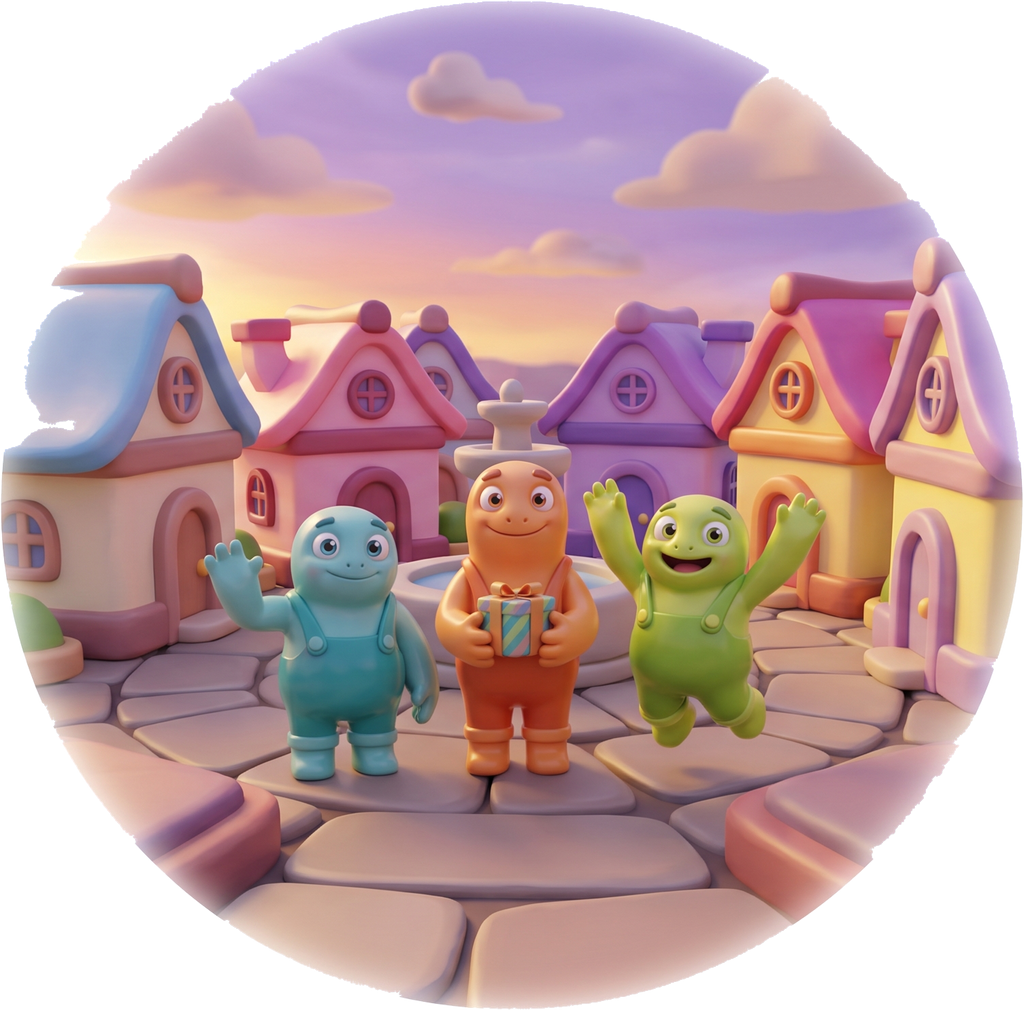
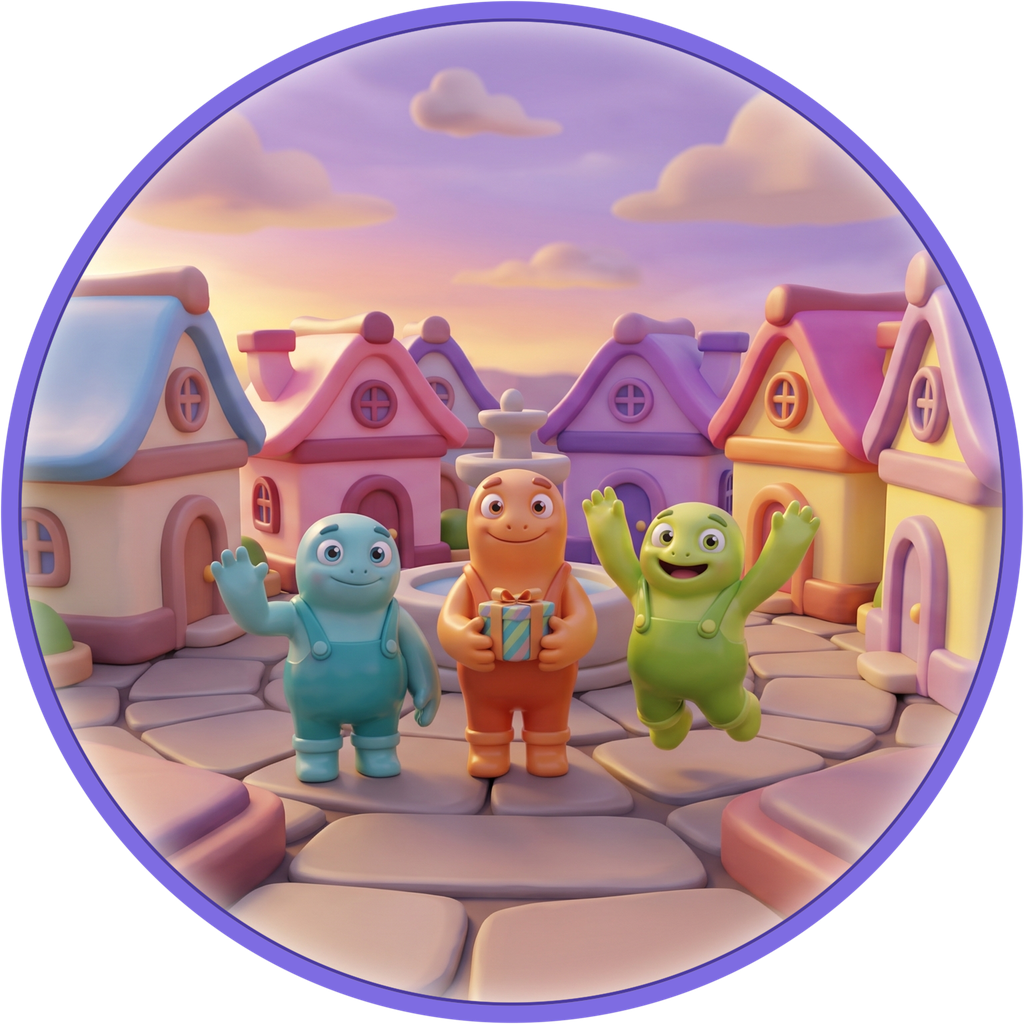
Bolge daireleri CIZILIYOR, Yolculuk zeminine doku, Ust/Alt kenara alindi
BAZI SEKILLER KESILMEZ, CIZILIR: Bolge gorselleri dairesel cizilip
kenarlari zemine yumusak geciyor. Renk tasmasiyla kesmek o yumusak gecisi
duzensiz yiyordu -- daire artik daire degil, her gorselde farkli yerinden
kemirilmis bir lekeydi. Seklin ne oldugunu ZATEN BILIYORSAK onu tahmin
etmeye calismak yanlis. cutout.py'a `circle` secenegi eklendi: goruntu
merkezden kareye kirpilip kusursuz bir daire alfasi uygulaniyor, kenarina
da cerceve halkasi basiliyor. Halka iki is goruyor -- yarim kalmis
pikselleri ortuyor ve koyu zeminde daireye sinir veriyor. Ayri bir cerceve
gorseline gerek kalmadi.

DUZ RENK ZEMIN BOS OKUNUR: Yolculuk'un zemini duz laciverttdi; manzaradan
iyiydi (yazi okunuyordu) ama ekran "yuklenmemis" gibi duruyordu. Cok dusuk
kontrastli sekiller eklendi: %4-7 opaklikta daireler ve %10 opaklikta
yildizlar. Kritik olan kontrastin DUSUK olmasi. Sekiller sabit bir duzende
-- rastgele olsaydi her acilista farkli durur ve "bozuk mu" hissi verirdi.

YARDIMCI DUGME ANA YOLUN USTUNDE DURMAZ: Ust/Alt ekranin ortasindaydi ve
rayin uzerindeki rozetlerle cakisiyordu. Islevleri ikincil; sag kenara,
icerigin disina alindilar.

Changed region(s): [[0.0, 0.0, 1.0, 1.0], [0.6562, 0.1228, 0.7188, 0.1535], [0.5312, 0.2149, 0.5625, 0.2455]]

diff --git a/Assets/_Project/Scripts/Runtime/UI/JourneyScreen.cs b/Assets/_Project/Scripts/Runtime/UI/JourneyScreen.cs
@@ -76,6 +76,7 @@ namespace BlockOut.Runtime.UI
 
             // Manzarayı tamamen kapat: bu ekran sade zemin ister.
             UiKit.CreatePanel("Solid", root, Indigo);
+            screen.BuildBackdrop(root);
 
             screen.BuildScrollArea(root);
             screen.BuildTrack();
@@ -89,6 +90,54 @@ namespace BlockOut.Runtime.UI
 
             screen._built = true;
             return root;
+        }
+
+        /// <summary>
+        /// Zemin dokusu: büyük yumuşak daireler ve serpiştirilmiş yıldızlar.
+        ///
+        /// DERS (düz renk zemin BOŞ okunur): Bu ekranın zemini düz laciverttdi.
+        /// Manzaradan iyiydi (yazı okunuyordu) ama ekran "yüklenmemiş" gibi
+        /// duruyordu. Referansta da düz değil: çok düşük kontrastlı şekiller
+        /// var. Kritik olan KONTRASTIN DÜŞÜK olması — %4-7 opaklıkta bir daire
+        /// gözü hiç rahatsız etmiyor ama yüzeyin var olduğunu söylüyor.
+        ///
+        /// Şekiller sabit bir düzende: rastgele olsaydı her açılışta farklı
+        /// dururdu ve "bozuk mu" hissi verirdi.
+        /// </summary>
+        void BuildBackdrop(Transform root)
+        {
+            var layer = UiKit.CreateRect("Backdrop", root);
+            UiKit.Place(layer, 0f, 0f, 1f, 1f);
+
+            // (x, y, çap, opaklık) — elle dizildi, ekranı dengeli dolduruyor.
+            var blobs = new[]
+            {
+                (0.14f, 0.86f, 0.42f, 0.055f), (0.82f, 0.72f, 0.34f, 0.045f),
+                (0.30f, 0.52f, 0.50f, 0.040f), (0.88f, 0.34f, 0.44f, 0.050f),
+                (0.16f, 0.16f, 0.38f, 0.045f), (0.62f, 0.06f, 0.30f, 0.038f),
+            };
+            foreach (var (x, y, d, a) in blobs)
+            {
+                var blob = UiKit.CreateRoundedPanel("Blob", layer,
+                    new Color(0.62f, 0.55f, 1f, a));
+                blob.pixelsPerUnitMultiplier = 0.05f;
+                blob.raycastTarget = false;
+                UiKit.Place(blob, x - d * 0.5f, y - d * 0.35f, x + d * 0.5f, y + d * 0.35f);
+            }
+
+            var star = UiSkin.Get(Art.Star);
+            var stars = new[]
+            {
+                (0.09f, 0.62f, 0.055f), (0.91f, 0.55f, 0.042f), (0.20f, 0.30f, 0.048f),
+                (0.78f, 0.90f, 0.045f), (0.50f, 0.94f, 0.035f), (0.86f, 0.14f, 0.050f),
+                (0.12f, 0.44f, 0.038f), (0.70f, 0.24f, 0.042f),
+            };
+            foreach (var (x, y, d) in stars)
+            {
+                var glyph = UiKit.CreateIcon("Star", layer, star,
+                    new Color(1f, 0.96f, 0.78f, 0.10f));
+                UiKit.Place(glyph, x - d * 0.5f, y - d * 0.28f, x + d * 0.5f, y + d * 0.28f);
+            }
         }
 
         void BuildScrollArea(Transform root)
@@ -181,7 +230,7 @@ namespace BlockOut.Runtime.UI
         void BuildMilestone((int level, string icon, string value) milestone, float y)
         {
             var pill = UiKit.CreateSlicedPanel($"Level_{milestone.level}", _content,
-                UiSkin.Get(Art.PanelDark), Periwinkle);
+                UiSkin.Get(Art.PanelDark), new Color(0.463f, 0.416f, 0.878f));
             Anchor(pill.rectTransform, -272f, y, 452f, 172f);
 
             var caption = UiKit.CreateLabel("Caption", pill.transform, "Seviye", 30,
@@ -262,15 +311,18 @@ namespace BlockOut.Runtime.UI
         /// <summary>Rayın iki ucuna atlayan düğmeler — referanstaki "Üst"/"Alt".</summary>
         void BuildJumpButtons(Transform root)
         {
+            // DERS (yardımcı düğme ana yolun ÜSTÜNDE durmaz): Bu ikisi
+            // ekranın ortasındaydı ve rayın üstündeki rozetlerle çakışıyordu.
+            // İşlevleri ikincil — sağ kenara, içeriğin dışına alındılar.
             var up = UiKit.CreateTintedButton("Up", root, UiSkin.Get(Art.PanelCard),
-                Periwinkle, "Üst", 28, UiKit.Ink);
-            UiKit.Place(up, 0.40f, 0.812f, 0.60f, 0.866f);
+                Periwinkle, "Üst", 24, UiKit.Ink);
+            UiKit.Place(up, 0.795f, 0.800f, 0.965f, 0.852f);
             up.onClick.AddListener(() =>
             { if (_scroll != null) _scroll.verticalNormalizedPosition = 1f; });
 
             var down = UiKit.CreateTintedButton("Down", root, UiSkin.Get(Art.PanelCard),
-                Periwinkle, "Alt", 28, UiKit.Ink);
-            UiKit.Place(down, 0.40f, 0.014f, 0.60f, 0.068f);
+                Periwinkle, "Alt", 24, UiKit.Ink);
+            UiKit.Place(down, 0.795f, 0.022f, 0.965f, 0.074f);
             down.onClick.AddListener(() =>
             { if (_scroll != null) _scroll.verticalNormalizedPosition = 0f; });
         }

diff --git a/tools/cutout.py b/tools/cutout.py
@@ -253,7 +253,53 @@ def unfringe(rgb: np.ndarray, alpha: np.ndarray, seeds: np.ndarray) -> np.ndarra
 
 DEFAULTS = dict(tolerance=40.0, trim=True, size=512, feather=0.8, local=8.0,
                 slow=False, holes=False, square=False, min_part=0.0005,
-                neutral=0.0, bright=0.0, seal=0, key=True)
+                neutral=0.0, bright=0.0, seal=0, key=True,
+                circle=False, ring=0.0,
+                ring_color=(126, 108, 226), inner_ring_color=(74, 58, 158))
+
+
+def circular_cut(image: Image.Image, ring: float, ring_color, inner_ring_color) -> Image.Image:
+    """
+    Görseli KUSURSUZ bir daireye kırpar ve kenarına çerçeve halkası basar.
+
+    DERS (bazı şekiller kesilmez, ÇİZİLİR): Bölge görselleri dairesel çizilip
+    kenarları zemine yumuşak geçiyor. Renk taşmasıyla kesmek o yumuşak geçişi
+    düzensiz yiyor: daire artık daire değil, kemirilmiş bir leke oluyor —
+    her görselde farklı yerinden. Şeklin ne olduğunu ZATEN BİLİYORSAK onu
+    tahmin etmeye çalışmak yanlış; doğrudan çizmek hem kusursuz hem de her
+    görselde birebir aynı sonucu veriyor.
+
+    Halka ayrıca iki iş görüyor: kenardaki yarım kalmış pikselleri örtüyor ve
+    koyu zeminde daireye bir sınır veriyor.
+    """
+    size = min(image.width, image.height)
+    left = (image.width - size) // 2
+    top = (image.height - size) // 2
+    square = image.crop((left, top, left + size, top + size)).convert("RGBA")
+
+    y, x = np.ogrid[:size, :size]
+    center = (size - 1) / 2.0
+    distance = np.sqrt((x - center) ** 2 + (y - center) ** 2)
+    radius = center
+
+    pixels = np.array(square).astype(np.float32)
+
+    # Alfa: yarıçapa kadar dolu, son 2 pikselde yumuşak biter (tırtık olmasın).
+    alpha = np.clip((radius - distance) / 2.0, 0.0, 1.0)
+
+    if ring > 0:
+        outer = np.clip((radius - distance) / 1.5, 0.0, 1.0)
+        inner = np.clip((radius - ring - distance) / 1.5, 0.0, 1.0)
+        band = np.clip(outer - inner, 0.0, 1.0)[..., None]
+        pixels[:, :, :3] = pixels[:, :, :3] * (1 - band) + np.array(ring_color) * band
+
+        # İnce iç çizgi: halkanın içine bir ton daha koyu bir hat, kalınlık hissi.
+        thin = np.clip((radius - ring - distance) / 1.5, 0.0, 1.0) -                np.clip((radius - ring - 5 - distance) / 1.5, 0.0, 1.0)
+        thin = np.clip(thin, 0.0, 1.0)[..., None]
+        pixels[:, :, :3] = pixels[:, :, :3] * (1 - thin) + np.array(inner_ring_color) * thin
+
+    pixels[:, :, 3] = alpha * 255.0
+    return Image.fromarray(pixels.astype(np.uint8), "RGBA")
 
 
 def process(path: pathlib.Path, out_dir: pathlib.Path, **overrides) -> str:
@@ -265,6 +311,17 @@ def process(path: pathlib.Path, out_dir: pathlib.Path, **overrides) -> str:
     neutral, bright, seal = opt["neutral"], opt["bright"], opt["seal"]
 
     image = Image.open(path).convert("RGBA")
+
+    # Dairesel görseller: kesilmez, ÇİZİLİR.
+    if opt["circle"]:
+        result = circular_cut(image, opt["ring"], opt["ring_color"], opt["inner_ring_color"])
+        if size > 0 and max(result.size) > size:
+            scale = size / max(result.size)
+            result = result.resize((round(result.width * scale), round(result.height * scale)),
+                                   Image.LANCZOS)
+        out_dir.mkdir(parents=True, exist_ok=True)
+        result.save(out_dir / (path.stem + ".png"))
+        return f"{path.name} -> {path.stem}.png  (daire, {result.width}x{result.height})"
 
     # Arka plan görselleri (menü zemini gibi) kesilmez, yalnız küçültülür.
     if not opt["key"]:

diff --git a/tools/import_art.py b/tools/import_art.py
@@ -73,10 +73,10 @@ RECIPES = {
     "home_characters": dict(neutral=38, tolerance=72, bright=6, size=1024),
     "avatar_player":   dict(neutral=26, size=1024, feather=1.2),
     "check_green":     dict(neutral=26, size=512),
-    "region_1":        dict(neutral=26, size=1024),
-    "region_2":        dict(neutral=26, size=1024),
-    "region_3":        dict(neutral=26, size=1024),
-    "region_4":        dict(neutral=26, size=1024),
+    "region_1":        dict(circle=True, ring=26, size=1024),
+    "region_2":        dict(circle=True, ring=26, size=1024),
+    "region_3":        dict(circle=True, ring=26, size=1024),
+    "region_4":        dict(circle=True, ring=26, size=1024),
     # Şeridin ortası oyuk: kapalı delik, kenardan taşma oraya ulaşamaz.
     "ribbon_reward":   dict(neutral=26, size=1024, holes=True),
 
